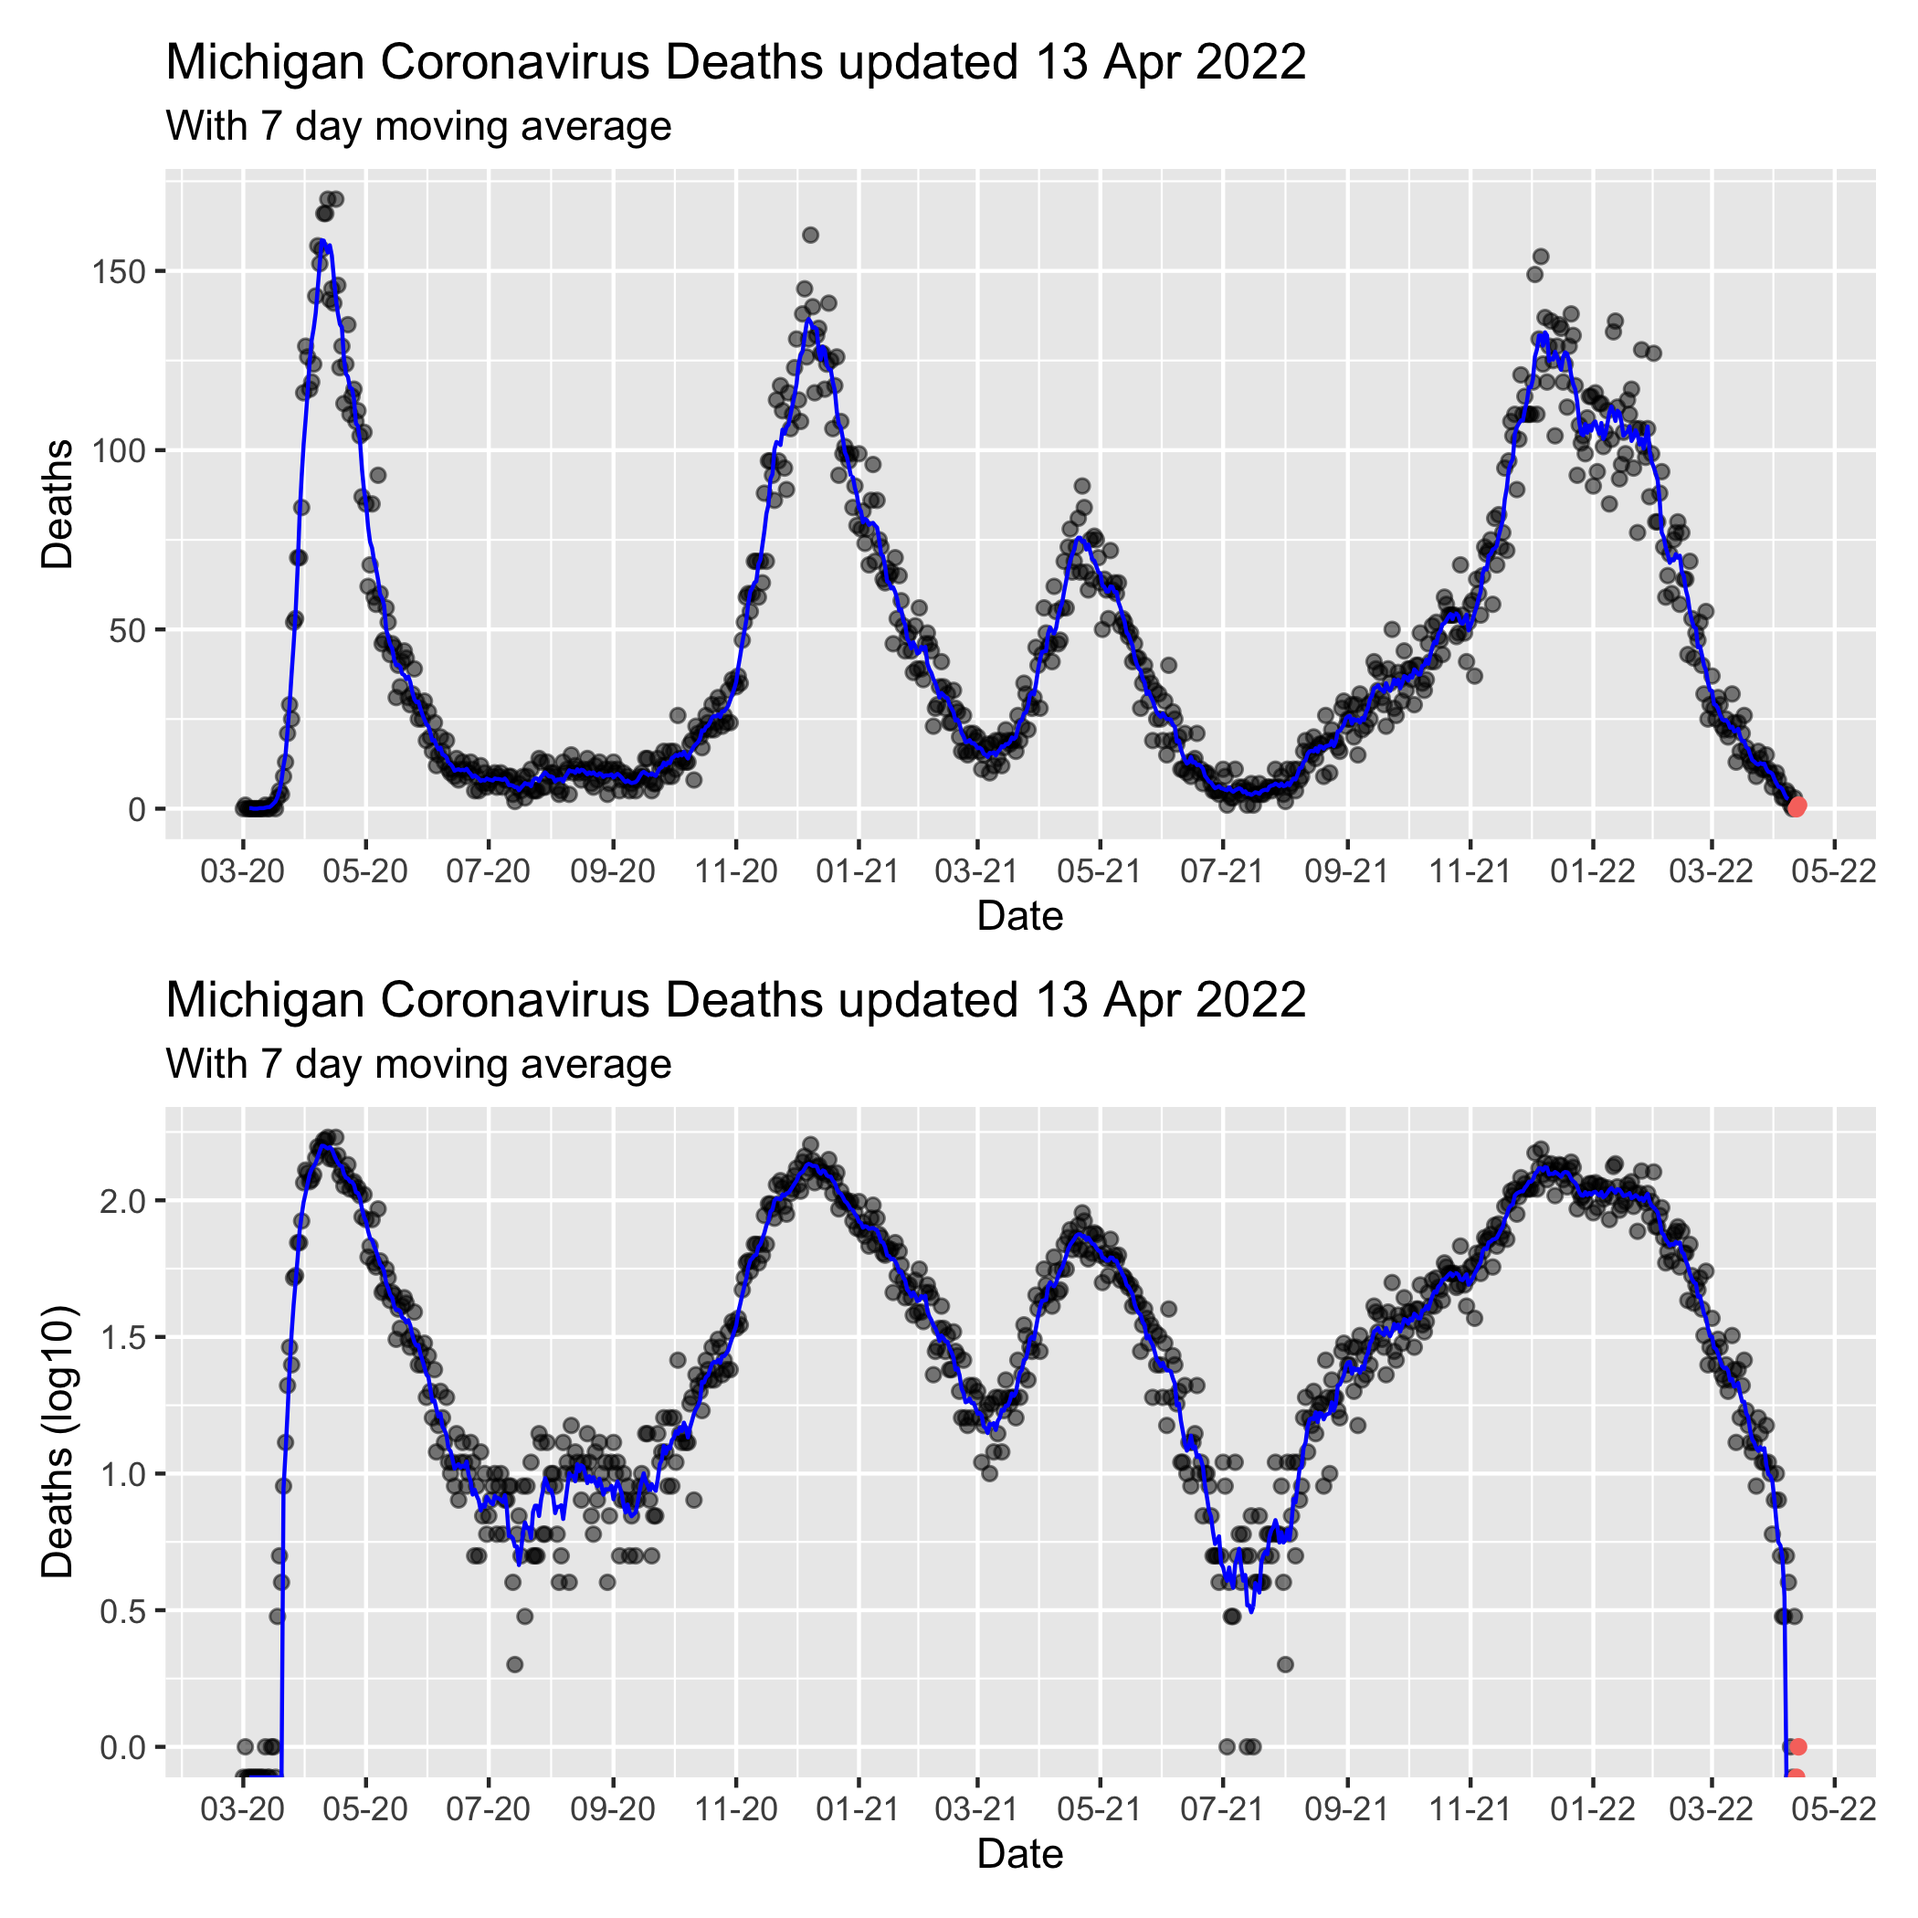
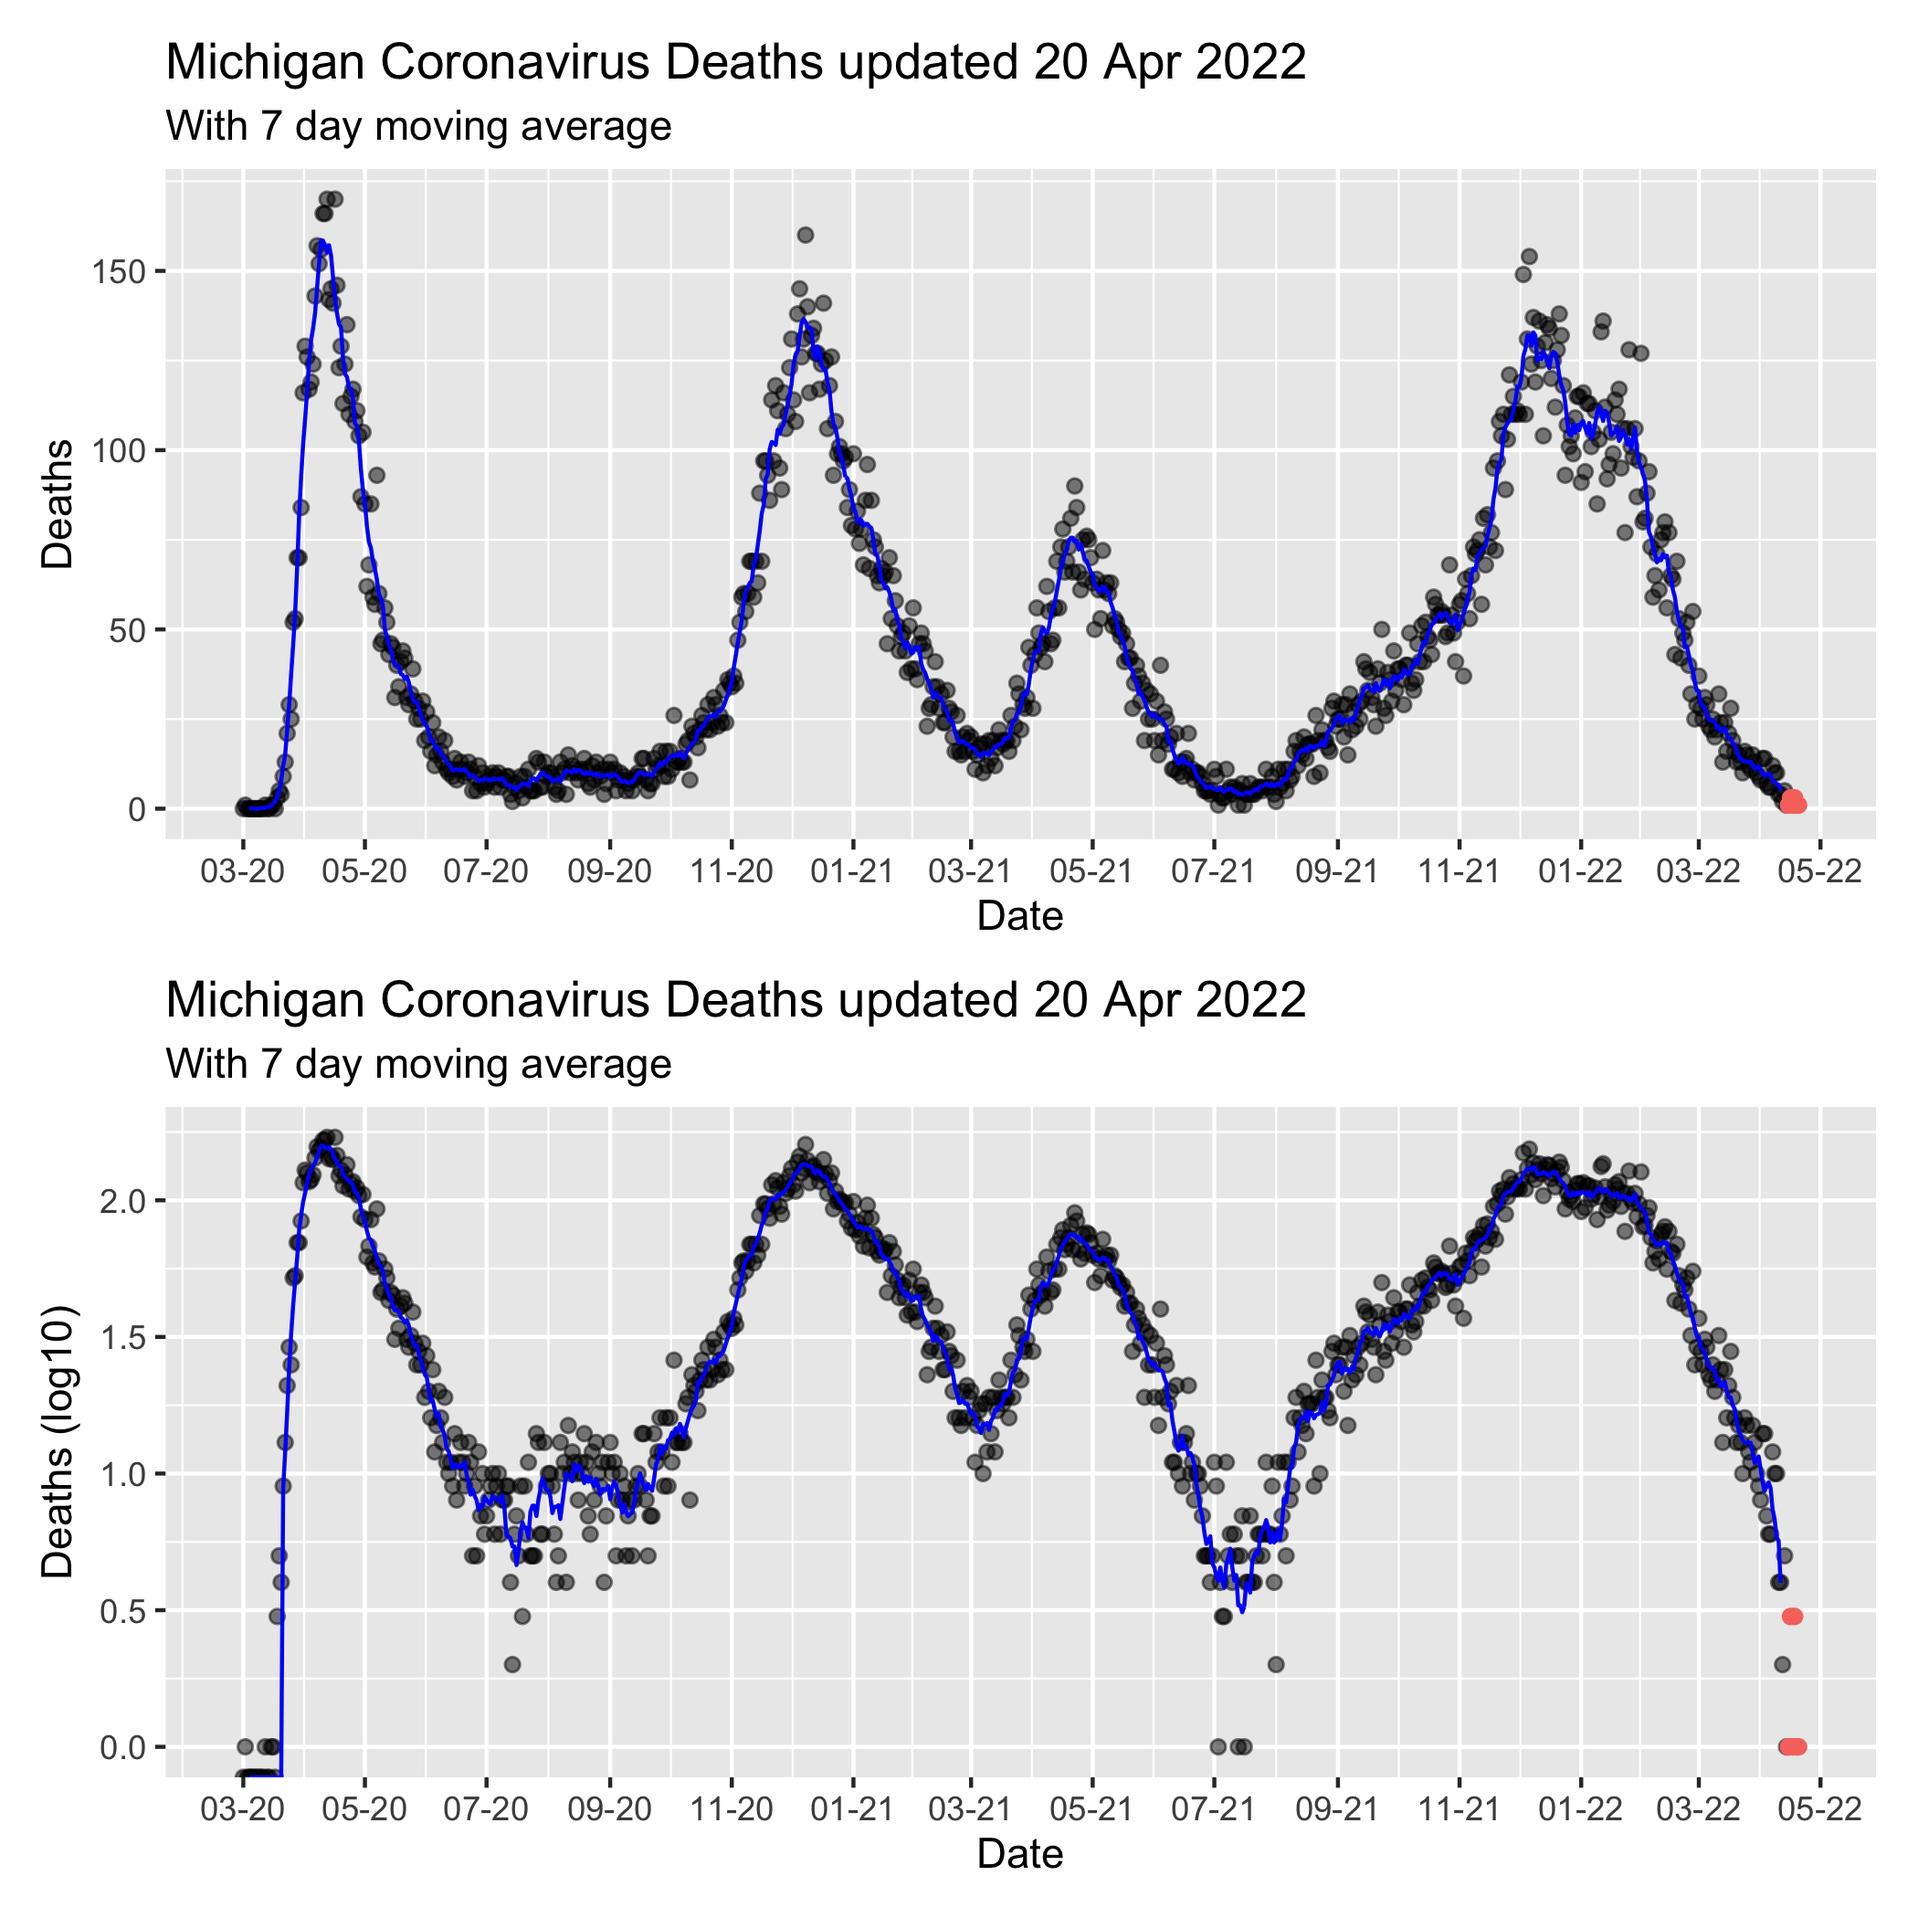
Apr-21 2022 18:58 update

diff --git a/MiCorona.md b/MiCorona.md
@@ -1,7 +1,7 @@
 Michigan COVID Data
 ================
 Adam D. DenHaan
-Apr 18, 2022
+Apr 21, 2022
 
 Get link for data:
 
@@ -48,12 +48,12 @@ mi_data.head()
     ## 3  Alcona 2020-03-04   Confirmed    0.0     0.0               0.0   
     ## 4  Alcona 2020-03-05   Confirmed    0.0     0.0               0.0   
     ## 
-    ##    Deaths.Cumulative                       Updated  
-    ## 0                0.0 2022-04-13 13:38:08.529999872  
-    ## 1                0.0 2022-04-13 13:38:08.529999872  
-    ## 2                0.0 2022-04-13 13:38:08.529999872  
-    ## 3                0.0 2022-04-13 13:38:08.529999872  
-    ## 4                0.0 2022-04-13 13:38:08.529999872
+    ##    Deaths.Cumulative                 Updated  
+    ## 0                0.0 2022-04-20 12:01:17.948  
+    ## 1                0.0 2022-04-20 12:01:17.948  
+    ## 2                0.0 2022-04-20 12:01:17.948  
+    ## 3                0.0 2022-04-20 12:01:17.948  
+    ## 4                0.0 2022-04-20 12:01:17.948
 
 ``` python
 max_date = max(mi_data["Updated"])
@@ -135,5 +135,5 @@ viz_function(mi_cases_by_day_exclusive, mi_cases_by_day_last4, Date, Deaths, ver
 
 ![](MiCorona_files/figure-gfm/viz2-1.png)<!-- -->
 
-Note that the last 2 days of data have been colored red on the graph, as
+Note that the last 6 days of data have been colored red on the graph, as
 they frequently change as more information becomes available.
